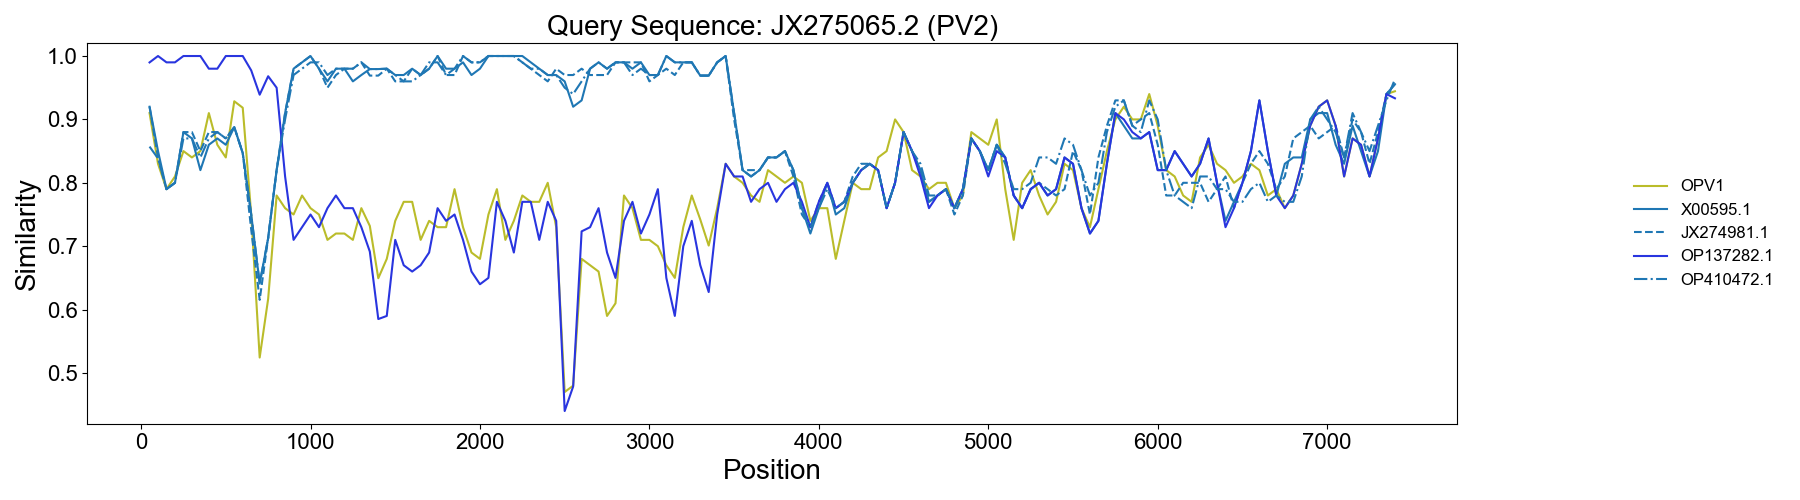
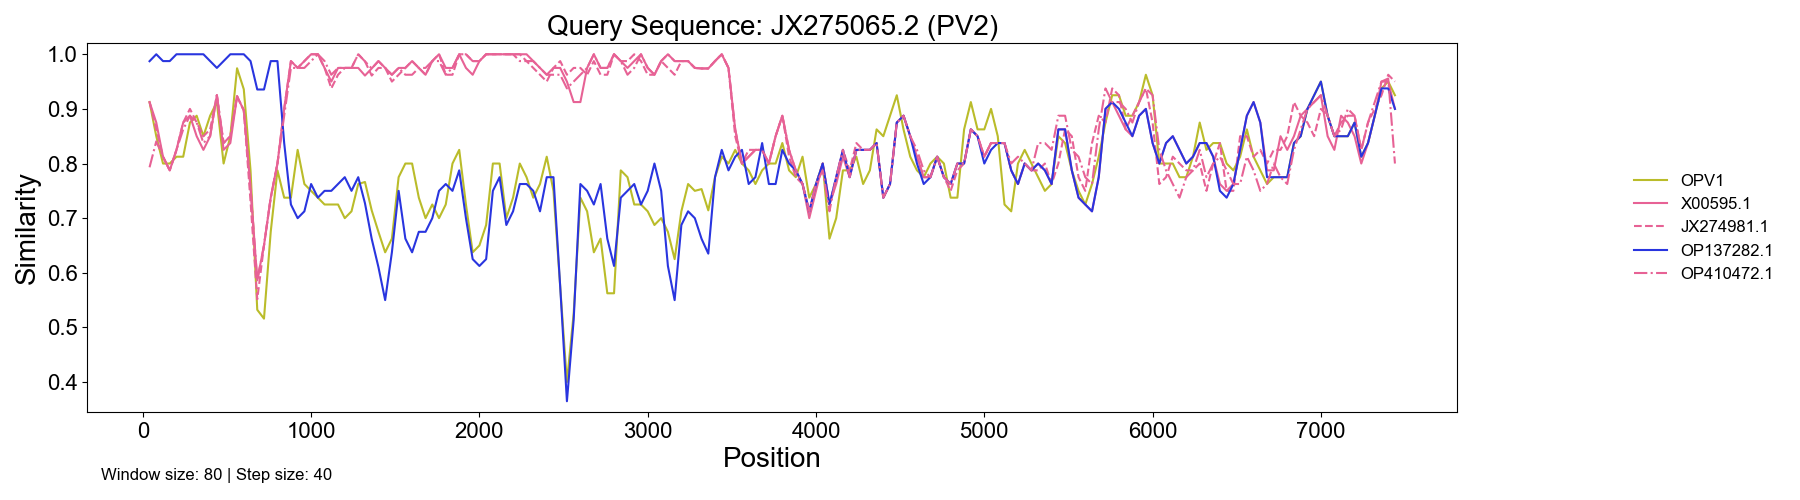
Implemented checks for missing inputs and other small details

diff --git a/scripts/main.py b/scripts/main.py
@@ -40,6 +40,45 @@ def main():
     # Read query alignment
     query_alignment = list(SeqIO.parse(args.alignment, "fasta"))
 
+    # Read metadata if provided
+    if args.metadata:
+        if not os.path.exists(args.metadata):
+            raise ValueError(f"Metadata file {args.metadata} does not exist.")
+        
+        # Read metadata
+        if args.metadata.endswith(".csv"):
+            metadata = pd.read_csv(args.metadata)
+        elif args.metadata.endswith(".tsv"):
+            metadata = pd.read_csv(args.metadata, sep="\t")
+        else:
+            raise ValueError("Please provide a valid metadata file (csv/tsv).")
+        
+        # Check if metadata_id_col and metadata_genotype_col (default: "Accession" & "Genotype") are in the metadata file
+        if args.metadata_id_col not in metadata.columns or args.metadata_genotype_col not in metadata.columns:
+            raise ValueError("Please provide --metadata_id_col and --metadata_genotype_col arguments or ensure that the metadata file contains 'Accession' and 'Genotype' columns.")
+        
+    # Read colors if provided
+    if args.colors:
+        if not os.path.exists(args.colors):
+            raise ValueError(f"Colors file {args.colors} does not exist.")
+        if args.colors.endswith(".csv"):
+            colors = pd.read_csv(args.colors, header=None)
+        elif args.colors.endswith(".tsv"):
+            colors = pd.read_csv(args.colors, sep="\t", header=None)
+        else:
+            raise ValueError("Please provide a valid colors file (csv/tsv).")
+        if colors.shape[1] != 2:
+            raise ValueError("Colors file must have exactly two columns: genotype and color.")
+        colors.columns = ["genotype", "color"]
+    else:
+        colors = None
+
+    # Check if output directories exist, if not create them
+    if not os.path.exists(args.outplots):
+        os.makedirs(args.outplots)
+    if args.outcsv and not os.path.exists(args.outcsv):
+        os.makedirs(args.outcsv)
+
     # Check if reference is a fasta file
     if args.reference.endswith(".fasta") or args.reference.endswith(".fa") or args.reference.endswith(".fas"):
         reference_alignment = list(SeqIO.parse(args.reference, "fasta"))
@@ -66,26 +105,29 @@ def main():
             # Calculate pairwise distances for each window
             print(f"    └── Calculating pairwise distances for each window")
             for step, aln in windows.items():
-                #window_results = calculate_pairwise_distances(alignment=aln, current_step=step, gaps=args.gaps)
-                window_results = calculate_pairwise_distances(alignment=aln, current_step=step, gaps=0)
+                window_results = calculate_pairwise_distances(alignment=aln, current_step=step, gaps=args.gaps)
                 final_results.extend(window_results)
 
             # Convert the list of results to a dataframe
             results_df = pd.DataFrame(final_results, columns=["seq1", "seq2", "step", "distance", "similarity", "proportion_valid"])
             
-            # Check if output directories exist, if not create them
-            if not os.path.exists(args.outplots):
-                os.makedirs(args.outplots)
-            if args.outcsv and not os.path.exists(args.outcsv):
-                os.makedirs(args.outcsv)
-            
             # Save the results as a CSV file if output directory is provided
             if args.outcsv:
                 results_df.to_csv(f"{args.outcsv}/{query_id}_similarity_results.csv", index=False)
             
+            # Assign colors to the results dataframe
+            print(f"    └── Assigning colors for plotting")
+            results_df = assign_colors(results_df, metadata=metadata, metadata_id_col=args.metadata_id_col, metadata_genotype_col=args.metadata_genotype_col, colors=colors)
+
+            # If metadata is provided, get the genotype of the query sequence
+            if args.metadata:
+                query_genotype = metadata.loc[metadata[args.metadata_id_col] == query_id, args.metadata_genotype_col].values[0]
+            else: 
+                query_genotype = None
+            
             # Plot the SimPlot
-            print(f"    └── Creating SimPlot for {query_id}")
-            plot_simplot(results_df, args.outplots, args.outformat, args.metadata, args.colors, args.metadata_id_col, args.metadata_genotype_col)
+            print(f"    └── Creating SimPlot")
+            plot_simplot(results_df, args.outplots, args.outformat, query_genotype, args.windowsize, args.stepsize)
 
             print(f"[INFO] Finished processing query sequence: {query_id}\n============================================================")
 
@@ -116,19 +158,23 @@ def main():
         # Convert the list of results to a dataframe
         results_df = pd.DataFrame(final_results, columns=["seq1", "seq2", "step", "distance", "similarity", "proportion_valid"])
         
-        # Check if output directories exist, if not create them
-        if not os.path.exists(args.outplots):
-            os.makedirs(args.outplots)
-        if args.outcsv and not os.path.exists(args.outcsv):
-            os.makedirs(args.outcsv)
-        
         # Save the results as a CSV file if output directory is provided
         if args.outcsv:
             results_df.to_csv(f"{args.outcsv}/{query_id}_similarity_results.csv", index=False)
+
+        # Assign colors to the results dataframe
+        print(f"    └── Assigning colors for plotting")
+        results_df = assign_colors(results_df, metadata=metadata, metadata_id_col=args.metadata_id_col, metadata_genotype_col=args.metadata_genotype_col, colors=colors)
         
+        # If metadata is provided, get the genotype of the query sequence
+        if args.metadata:
+            query_genotype = metadata.loc[metadata[args.metadata_id_col] == query_id, args.metadata_genotype_col].values[0]
+        else: 
+            query_genotype = None
+
         # Plot the SimPlot
-        print(f"    └── Creating SimPlot for {query_id}")
-        plot_simplot(results_df, args.outplots, args.outformat, args.metadata, args.colors, args.metadata_id_col, args.metadata_genotype_col)
+        print(f"    └── Creating SimPlot")
+        plot_simplot(results_df, args.outplots, args.outformat, query_genotype, args.windowsize, args.stepsize)
 
         print(f"[INFO] Finished processing query sequence: {query_id}\n============================================================")
 
@@ -227,82 +273,82 @@ def calculate_pairwise_distances(alignment, current_step, gaps):
     
     return results
 
-
-# Function to generate and save the SimPlots
-def plot_simplot(results_df, outdir, outformat, metadata=None, colors=None, metadata_id_col="Accession", metadata_genotype_col="Genotype"):
+def assign_colors(results_df, metadata=None, metadata_id_col=None, metadata_genotype_col=None, colors=None):
+    """
+    Assigns colors to results_df depending on metadata and/or colors mapping.
+    Handles four cases:
+      1. metadata + colors
+      2. metadata only
+      3. colors only (warns and ignores colors)
+      4. neither metadata nor colors
+    """
 
     default_colors = plt.colormaps["tab20"]
 
-    if metadata:
-        # Read metadata file
-        if metadata.endswith(".csv"):
-            meta_df = pd.read_csv(metadata)
-        elif metadata.endswith(".tsv"):
-            meta_df = pd.read_csv(metadata, sep="\t")
-        else:
-            raise ValueError("Please provide a valid metadata file (csv/tsv).")
-        
-        # Check if required columns are present in the metadata file
-        if metadata_id_col not in meta_df.columns:
-            raise ValueError(f"Metadata file does not contain a column named '{metadata_id_col}' (for sequence IDs).")
-        if metadata_genotype_col not in meta_df.columns:
-            raise ValueError(f"Metadata file does not contain a column named '{metadata_genotype_col}' (for genotype information).")
-        
+    # --- Case 1 & 2: Metadata provided ---
+    if metadata is not None:
         # Merge metadata with results dataframe
-        meta_df.rename(columns={metadata_id_col: "seq2", metadata_genotype_col: "genotype"}, inplace=True)
-        results_df = results_df.merge(meta_df[["seq2", "genotype"]], on="seq2", how="left")
+        metadata = metadata.rename(columns={metadata_id_col: "seq2", metadata_genotype_col: "genotype"})
+        results_df = results_df.merge(metadata[["seq2", "genotype"]], on="seq2", how="left")
 
-        # If color-genotype mapping is provided, add colors to the output plot; else use default colors for each genotype
-        if colors:
-            if colors.endswith(".csv"):
-                colors_df = pd.read_csv(colors, header=None)
-            elif colors.endswith(".tsv"):
-                colors_df = pd.read_csv(colors, sep="\t", header=None)
-            else:
-                raise ValueError("Please provide a valid colors file (csv/tsv).")
-        
-            # Check if colors file has two columns
-            if colors_df.shape[1] != 2:
-                raise ValueError("Colors file must have exactly two columns: genotype and color (hex code or color name).")
-            colors_df.columns = ["genotype", "color"]
+        # --- Case 1: Metadata + Colors ---
+        # Color by genotype using the provided color mapping
+        if colors is not None:
+            # Merge colors
+            results_df = results_df.merge(colors, on="genotype", how="left")
 
-            # Merge colors with results dataframe
-            results_df = results_df.merge(colors_df, on="genotype", how="left")
-
-            # Check for any genotypes without a color assigned
+            # Fill missing colors with defaults
             if results_df["color"].isnull().any():
-                missing_colors = results_df[results_df["color"].isnull()]["genotype"].unique()
-                missing_colors_str = ', '.join(missing_colors)
-                print(f"        └── The following genotypes do not have a color assigned: {missing_colors_str}. Assigning default colors.")
-                # Assign default colors to missing genotypes
-                unique_genotypes = results_df[results_df["color"].isnull()]["genotype"].unique()
-                for i, genotype in enumerate(unique_genotypes):
+                missing_genotypes = results_df.loc[results_df["color"].isnull(), "genotype"].unique()
+                print(f"        └── Missing colors for genotypes: {', '.join(missing_genotypes)}. Assigning defaults.")
+                for i, genotype in enumerate(missing_genotypes):
                     default_color = default_colors(i % default_colors.N)
                     results_df.loc[(results_df["genotype"] == genotype) & (results_df["color"].isnull()), "color"] = mpl.colors.to_hex(default_color)
+        
+        # --- Case 2: Metadata only ---
+        # Color by genotype using default colors
+        else:
+            print("        └── No colors file provided. Using default colors for genotypes.")
+            unique_genotypes = results_df["genotype"].unique()
+            for i, genotype in enumerate(unique_genotypes):
+                default_color = default_colors(i % default_colors.N)
+                results_df.loc[results_df["genotype"] == genotype, "color"] = mpl.colors.to_hex(default_color)
 
-    # If neither metadata nor colors are provided, use default colors for each reference sequence
-    else:
+    # --- Case 3: Colors only (warning, ignored) ---
+    # Color by reference sequence using default colors
+    elif metadata is None and colors is not None:
+        print("        └── Colors file provided but no metadata file. Provided colors will be ignored and default colors used (no genotype info).")
         reference_seqs = results_df["seq2"].unique()
         for i, seq in enumerate(reference_seqs):
             default_color = default_colors(i % default_colors.N)
             results_df.loc[results_df["seq2"] == seq, "color"] = mpl.colors.to_hex(default_color)
 
+    # --- Case 4: Neither metadata nor colors ---
+    # Color by reference sequence using default colors
+    else:
+        print("        └── No metadata or colors file provided. Using default colors (no genotype info).")
+        reference_seqs = results_df["seq2"].unique()
+        for i, seq in enumerate(reference_seqs):
+            default_color = default_colors(i % default_colors.N)
+            results_df.loc[results_df["seq2"] == seq, "color"] = mpl.colors.to_hex(default_color)
+
+    return results_df
+
+
+# Function to generate and save the SimPlots
+def plot_simplot(results_df, outdir, outformat, query_genotype=None, windowsize=None, stepsize=None):
 
     # Make the similarity plot
     fig, ax = plt.subplots(figsize=(18, 5))
     
     # Get IDs of reference sequences (plotting one line for each)
     reference_seqs = results_df["seq2"].unique()
-    
-    # Get ID of query sequence
-    query_seq = results_df["seq1"].unique()[0]
-    if metadata:   # If metadata is available, add genotype information to the query sequence
-        query_genotype = meta_df.loc[meta_df["seq2"] == query_seq, "genotype"].values[0]
-        if pd.isna(query_genotype):
-            query_seq = query_seq
-        else:
-            query_seq = f"{query_seq} ({query_genotype})"
 
+    # Get the query sequence ID and genotype (if available)
+    query_seq = results_df["seq1"].values[0]
+    if query_genotype:
+        query_seq = f"{query_seq} ({query_genotype})"
+    
     # Keep track of how many times each color has been used
     color_counts = {}
     line_styles = ['-', '--', '-.', ':'] # If the same color is used multiple times, use different line styles
@@ -335,6 +381,11 @@ def plot_simplot(results_df, outdir, outformat, metadata=None, colors=None, meta
         borderaxespad=0,                # Space between the legend and the axes
         frameon=False                   # Remove the frame for a cleaner look
     )
+
+    # Plot parameter choices in the bottom left corner of the plot (window size, step size)
+    if windowsize and stepsize:
+        ax.text(0.01, -0.15, f"Window size: {windowsize} | Step size: {stepsize}", transform=ax.transAxes, fontsize=12, va="top", ha="left")
+
     
     # Set fontsize of tick labels
     ax.tick_params(axis="both", which="major", labelsize=16)

diff --git a/README.md b/README.md
@@ -1,3 +1,3 @@
 # SimPlot for Command Line
 
-The goal of this project is to develop a simple implementation of the popular and useful SimPlot tool to compare sequences for command line usage.
+The goal of this project is to develop a simple implementation of the popular and useful SimPlot tool for command line usage.
